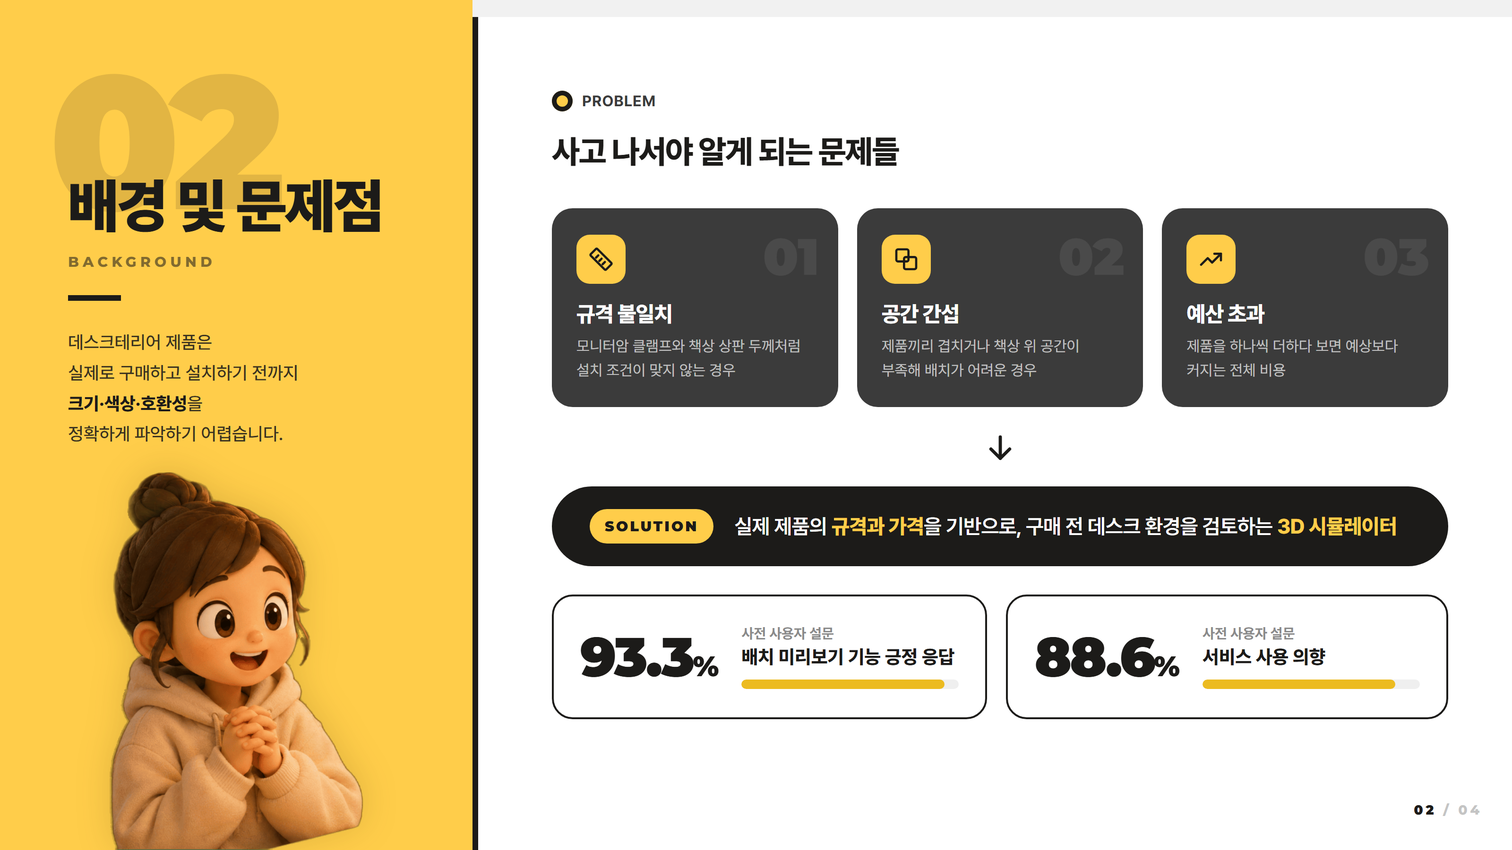
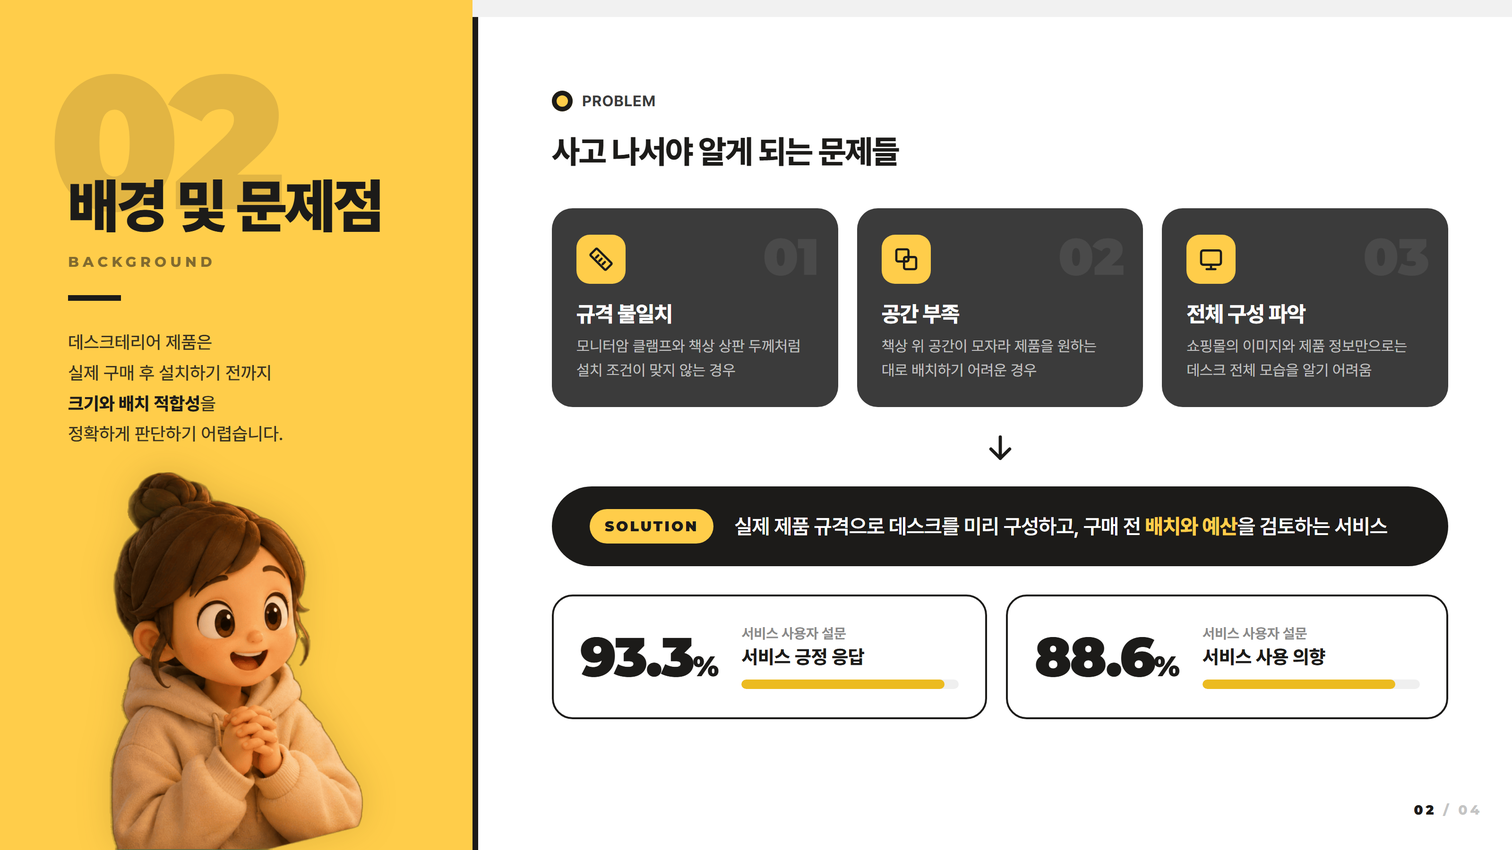
docs: README 05~10 내용 갱신 및 소개 슬라이드 01~04 재작성

diff --git a/docs/readme/src/slides.html b/docs/readme/src/slides.html
@@ -55,16 +55,16 @@
   .s1 .lead { font-size: 19px; line-height: 1.75; color: #444; margin-top: 18px; width: 560px; word-break: keep-all; }
   .s1 .lead b { color: var(--ink); font-weight: 700; }
   .s1 .laptop { position: absolute; right: 30px; top: 150px; width: 470px; filter: drop-shadow(0 24px 30px rgba(0,0,0,.16)); }
-  .s1 .facts { position: absolute; left: 84px; right: 84px; bottom: 76px; display: grid; grid-template-columns: 1.15fr .8fr 1.45fr 1.4fr; gap: 16px; }
-  .fact { border: 2px solid var(--ink); border-radius: 18px; padding: 20px 22px; background: #fff; }
+  .s1 .facts { position: absolute; left: 84px; right: 84px; bottom: 76px; display: grid; grid-template-columns: 1.2fr .8fr .8fr 1.3fr 1.5fr; gap: 14px; }
+  .fact { border: 2px solid var(--ink); border-radius: 18px; padding: 20px 18px; background: #fff; }
   .fact .k { font-size: 14px; font-weight: 700; color: var(--gray); letter-spacing: .5px; }
-  .fact .v { white-space: nowrap; font-size: 20px; font-weight: 800; margin-top: 8px; letter-spacing: -.5px; }
+  .fact .v { white-space: nowrap; font-size: 19px; font-weight: 800; margin-top: 8px; letter-spacing: -.5px; }
   .fact.award { background: var(--ink); color: #fff; display: flex; align-items: center; gap: 14px; padding: 20px 18px; }
   .fact.award .k { color: rgba(255,255,255,.55); }
   .fact.award .v { color: var(--yellow); }
   .fact.award svg { flex: none; }
-  .tags { display: flex; flex-wrap: wrap; gap: 6px; margin-top: 8px; }
-  .tags span { font-size: 14px; font-weight: 700; padding: 5px 11px; border-radius: 999px; background: var(--cream); border: 1.5px solid var(--ink); }
+  .tags { display: flex; flex-wrap: nowrap; gap: 6px; margin-top: 8px; }
+  .tags span { white-space: nowrap; font-size: 13px; font-weight: 700; padding: 5px 11px; border-radius: 999px; background: var(--cream); border: 1.5px solid var(--ink); }
   .tagline { position: absolute; left: 584px; bottom: 236px; font-weight: 900; font-size: 64px; letter-spacing: -2.5px; color: rgba(28,27,25,.08); white-space: nowrap; z-index: 2; pointer-events: none; }
 
   /* ---------- 02 ---------- */
@@ -120,7 +120,7 @@
     <h2>프로젝트 소개</h2>
     <div class="eyebrow">PROJECT OVERVIEW</div>
     <div class="bar"></div>
-    <p>실제 제품을 구매하기 전에<br><b>3D 공간에서 배치와 조합</b>을 확인해<br>불필요한 구매와 공간 구성의<br>시행착오를 줄입니다.</p>
+    <p>제품을 구매하기 전<br><b>가상 공간에서 배치와 조합</b>을 확인해<br>불필요한 구매와 공간 구성의<br>시행착오를 줄입니다.</p>
     <div class="ground"></div>
     <img class="mascot m1" src="assets/mascot-1.png" alt="">
   </div>
@@ -129,15 +129,16 @@
     <div class="kicker">실측 기반 3D 데스크테리어 시뮬레이터</div>
     <img class="logo" src="assets/logo.svg" alt="DERO">
     <h3>내 책상, 사기 전에<br><span class="hl">3D로 먼저 배치</span>해 보세요.</h3>
-    <p class="lead"><b>DERO</b>는 실제 제품 규격을 기반으로 자신만의 데스크 환경을 미리 구성하고, <b>제품 간 호환성과 예산</b>을 확인할 수 있는 3D 데스크테리어 시뮬레이션 서비스입니다.</p>
+    <p class="lead"><b>DERO</b>는 실제 제품 규격을 기반으로 자신만의 데스크 환경을 구성하고, <b>제품 간 호환성과 예산</b>을 미리 확인할 수 있는 3D 데스크테리어 서비스입니다.</p>
     <img class="laptop" src="assets/laptop.png" alt="">
     <div class="facts">
       <div class="fact"><div class="k">개발 기간</div><div class="v">2026.07 ~ 2026.08</div></div>
       <div class="fact"><div class="k">프로젝트 유형</div><div class="v">팀 프로젝트</div></div>
-      <div class="fact"><div class="k">주요 기술</div><div class="tags"><span>React</span><span>TypeScript</span><span>Tailwind CSS</span><span>GLB</span></div></div>
+      <div class="fact"><div class="k">담당 역할</div><div class="v">Frontend</div></div>
+      <div class="fact"><div class="k">주요 기술</div><div class="tags"><span>React</span><span>Tailwind CSS</span></div></div>
       <div class="fact award">
         <svg width="44" height="44" viewBox="0 0 24 24" fill="none" stroke="#FFCD4A" stroke-width="1.8" stroke-linecap="round" stroke-linejoin="round"><path d="M8 21h8M12 17v4M7 4h10v5a5 5 0 0 1-10 0V4Z"/><path d="M17 5h3v2a3 3 0 0 1-3 3M7 5H4v2a3 3 0 0 0 3 3"/></svg>
-        <div><div class="k">주요 성과</div><div class="v">프로젝트 최우수상</div></div>
+        <div><div class="k">주요 성과</div><div class="v">프로젝트 우수상</div></div>
       </div>
     </div>
     <div class="page"><b>01</b> / 04</div>
@@ -151,7 +152,7 @@
     <h2>배경 및 문제점</h2>
     <div class="eyebrow">BACKGROUND</div>
     <div class="bar"></div>
-    <p>데스크테리어 제품은<br>실제로 구매하고 설치하기 전까지<br><b>크기·색상·호환성</b>을<br>정확하게 파악하기 어렵습니다.</p>
+    <p>데스크테리어 제품은<br>실제 구매 후 설치하기 전까지<br><b>크기와 배치 적합성</b>을<br>정확하게 판단하기 어렵습니다.</p>
     <div class="ground"></div>
     <img class="mascot m2" src="assets/mascot-2.png" alt="">
   </div>
@@ -164,21 +165,21 @@
         <div class="t">규격 불일치</div><div class="d">모니터암 클램프와 책상 상판 두께처럼 설치 조건이 맞지 않는 경우</div></div>
       <div class="prob"><span class="x">02</span>
         <div class="ic"><svg width="28" height="28" viewBox="0 0 24 24" fill="none" stroke="#1C1B19" stroke-width="2" stroke-linecap="round" stroke-linejoin="round"><rect x="3" y="3" width="11" height="11" rx="1.5"/><rect x="10" y="10" width="11" height="11" rx="1.5"/></svg></div>
-        <div class="t">공간 간섭</div><div class="d">제품끼리 겹치거나 책상 위 공간이 부족해 배치가 어려운 경우</div></div>
+        <div class="t">공간 부족</div><div class="d">책상 위 공간이 모자라 제품을 원하는 대로 배치하기 어려운 경우</div></div>
       <div class="prob"><span class="x">03</span>
-        <div class="ic"><svg width="28" height="28" viewBox="0 0 24 24" fill="none" stroke="#1C1B19" stroke-width="2" stroke-linecap="round" stroke-linejoin="round"><path d="M3 17 9 11l4 4 8-8"/><path d="M15 7h6v6"/></svg></div>
-        <div class="t">예산 초과</div><div class="d">제품을 하나씩 더하다 보면 예상보다 커지는 전체 비용</div></div>
+        <div class="ic"><svg width="28" height="28" viewBox="0 0 24 24" fill="none" stroke="#1C1B19" stroke-width="2" stroke-linecap="round" stroke-linejoin="round"><rect x="3" y="4" width="18" height="13" rx="2"/><path d="M8 21h8M12 17v4"/></svg></div>
+        <div class="t">전체 구성 파악</div><div class="d">쇼핑몰의 이미지와 제품 정보만으로는 데스크 전체 모습을 알기 어려움</div></div>
     </div>
     <div class="arrow"><svg width="34" height="34" viewBox="0 0 24 24" fill="none" stroke="#1C1B19" stroke-width="2.4" stroke-linecap="round" stroke-linejoin="round"><path d="M12 4v16M5 13l7 7 7-7"/></svg></div>
     <div class="solve">
       <span class="chip">SOLUTION</span>
-      <span class="t">실제 제품의 <b>규격과 가격</b>을 기반으로, 구매 전 데스크 환경을 검토하는 <b>3D 시뮬레이터</b></span>
+      <span class="t">실제 제품 규격으로 데스크를 미리 구성하고, 구매 전 <b>배치와 예산</b>을 검토하는 서비스</span>
     </div>
     <div class="stats">
       <div class="stat"><div class="n">93.3<small>%</small></div>
-        <div><div class="k">사전 사용자 설문</div><div class="v">배치 미리보기 기능 긍정 응답</div><div class="meter"><i style="width:93.3%"></i></div></div></div>
+        <div><div class="k">서비스 사용자 설문</div><div class="v">서비스 긍정 응답</div><div class="meter"><i style="width:93.3%"></i></div></div></div>
       <div class="stat"><div class="n">88.6<small>%</small></div>
-        <div><div class="k">사전 사용자 설문</div><div class="v">서비스 사용 의향</div><div class="meter"><i style="width:88.6%"></i></div></div></div>
+        <div><div class="k">서비스 사용자 설문</div><div class="v">서비스 사용 의향</div><div class="meter"><i style="width:88.6%"></i></div></div></div>
     </div>
     <div class="page"><b>02</b> / 04</div>
   </div>
@@ -191,7 +192,7 @@
     <h2>주요 기능</h2>
     <div class="eyebrow">KEY FEATURES</div>
     <div class="bar"></div>
-    <p>배치부터 호환성, 예산, 공유까지<br><b>구매 전 데스크 검토</b>에 필요한<br>흐름을 하나로 담았습니다.</p>
+    <p>배치부터 호환성, 예산, 공유,<br>마이페이지까지 <b>구매 전 데스크 검토</b>에<br>필요한 흐름을 하나로 담았습니다.</p>
     <div class="ground"></div>
     <img class="mascot m3" src="assets/mascot-3.png" alt="">
   </div>
@@ -199,12 +200,12 @@
     <div class="kicker">FEATURES</div>
     <h3>DERO에서 할 수 있는 것</h3>
     <div class="feats">
-      <div class="feat"><div class="no">1</div><div><div class="t">3D 데스크 시뮬레이터</div><div class="d">실제 제품 크기를 반영한 데스크 환경 구성</div></div></div>
-      <div class="feat"><div class="no">2</div><div><div class="t">배치 및 호환성 검토</div><div class="d">제품 간 크기와 설치 조건을 고려한 배치 확인</div></div></div>
-      <div class="feat"><div class="no">3</div><div><div class="t">다중 카메라 시점</div><div class="d">1인칭 · 3인칭 · 탑뷰 · 후면뷰 제공</div></div></div>
-      <div class="feat"><div class="no">4</div><div><div class="t">벽면 표시 전환</div><div class="d">좌 · 우 · 앞 3면의 벽을 개별로 표시 및 숨김</div></div></div>
-      <div class="feat"><div class="no">5</div><div><div class="t">예산 관리</div><div class="d">선택한 제품의 가격으로 예상 비용 확인</div></div></div>
-      <div class="feat"><div class="no">6</div><div><div class="t">커뮤니티</div><div class="d">데스크 구성 공유 및 사용자 간 정보 교류</div></div></div>
+      <div class="feat"><div class="no">1</div><div><div class="t">3D 데스크 시뮬레이터</div><div class="d">실제 제품 규격을 반영한 데스크 환경 구성</div></div></div>
+      <div class="feat"><div class="no">2</div><div><div class="t">배치 및 호환성 확인</div><div class="d">제품 간 크기와 설치 조건을 고려한 배치 검토</div></div></div>
+      <div class="feat"><div class="no">3</div><div><div class="t">카메라 및 벽면 설정</div><div class="d">다양한 시점과 벽면 표시 전환으로 공간 확인</div></div></div>
+      <div class="feat"><div class="no">4</div><div><div class="t">제품 및 예산 관리</div><div class="d">선택한 제품 정보와 예상 구매 비용 확인</div></div></div>
+      <div class="feat"><div class="no">5</div><div><div class="t">커뮤니티</div><div class="d">데스크 구성 공유 및 사용자 간 정보 교류</div></div></div>
+      <div class="feat"><div class="no">6</div><div><div class="t">마이페이지</div><div class="d">개인 정보, 저장한 구성 및 활동 내역 관리</div></div></div>
     </div>
     <div class="page"><b>03</b> / 04</div>
   </div>
@@ -225,9 +226,9 @@
     <div class="kicker">SCREENSHOTS</div>
     <h3>직접 배치하고, 확인하고, 공유하기</h3>
     <div class="shots">
-      <div class="shot big"><img src="assets/sim.png" alt=""><div class="cap"><i>2</i>3D 데스크 시뮬레이터 <em>배치 · 카메라 전환 · 벽면 표시</em></div></div>
+      <div class="shot big"><img src="assets/sim.png" alt=""><div class="cap"><i>2</i>3D 데스크 시뮬레이터 <em>제품 선택 · 배치 · 카메라 전환</em></div></div>
       <div class="shot mock"><img src="assets/laptop.png" alt=""><div class="cap"><i>1</i>메인 화면</div></div>
-      <div class="shot"><img src="assets/product.png" alt=""><div class="cap"><i>3</i>제품 구성 · 예산 확인</div></div>
+      <div class="shot"><img src="assets/product.png" alt=""><div class="cap"><i>3</i>제품 정보 · 예산 확인</div></div>
       <div class="shot"><img src="assets/community.png" alt=""><div class="cap"><i>4</i>커뮤니티</div></div>
     </div>
     <div class="page"><b>04</b> / 04</div>

diff --git a/README.md b/README.md
@@ -9,97 +9,143 @@
 
 ## 05. 담당 역할
 
-**조규홍 — Frontend 개발**
+### Frontend (2026.07 ~ 08)
 
-- React 기반 프론트엔드 개발 작업 참여
-- TypeScript 및 Tailwind CSS를 활용한 UI 개발 환경 구성
-- 마이페이지의 주요 메뉴 및 화면 구조 설계 검토
-- 프론트엔드 실행 환경 구성 및 UI 컴포넌트 관련 문제 분석
+- React 기반 프론트엔드 개발 및 화면 구성
+- 프론트엔드 개발 환경을 React 기반으로 전환하는 작업 참여
+- Tailwind CSS 설치 및 UI 개발 환경 구성
+- 마이페이지 5개 화면의 구조 및 UI 설계
+- 페이지별 UI 요소와 사용자 동선을 고려한 화면 구성
+- 프론트엔드 개발 과정에서 발생한 문제 분석 및 개선 방향 검토
 
 ## 06. 기술 스택 및 선정 이유
 
 | 기술 | 선정 이유 |
 |---|---|
-| React | 컴포넌트 재사용과 사용자 상호작용이 많은 UI 구현 |
-| TypeScript | 타입 검사를 통한 데이터 구조 관리 및 코드 안정성 향상 |
-| Tailwind CSS | 공통 스타일 적용과 UI 개발 효율성 확보 |
-| GLB | 3D 제품 모델의 형상과 재질 정보를 효율적으로 관리 |
-| Spring Boot | REST API 및 서버 측 비즈니스 로직 구성 |
-| PostgreSQL | 사용자·상품·커뮤니티 등 관계형 데이터 관리 |
-| Flyway | 데이터베이스 스키마 변경 이력 관리 |
+| React | 컴포넌트 기반 구조를 통한 화면 개발 및 UI 재사용 |
+| JavaScript | 사용자 이벤트 처리 및 동적 화면 구성 |
+| Tailwind CSS | 유틸리티 클래스 기반의 빠른 스타일 적용과 일관된 UI 관리 |
+| HTML / CSS | 웹페이지 구조 및 레이아웃 구성 |
 
 ## 07. 기술 구현 정보
 
-### 1) 실측 기반 3D 데스크 시뮬레이터
+### 1) React 기반 프론트엔드 구조
 
-제품의 실제 크기 정보를 활용하여 3D 공간에서 배치 상태를 확인할 수 있도록 구성했습니다.
-사용자가 제품의 위치와 조합을 변경하면서 책상 공간에 적합한 구성을 미리 검토하는 방식입니다.
+React를 활용하여 서비스의 화면을 컴포넌트 단위로 구성하는 개발 환경을 구축했습니다.
 
-### 2) 카메라 프리셋 및 벽면 전환
+페이지별 기능과 UI 요소를 구분하여 개발하고, 공통으로 활용할 수 있는 레이아웃과 구성 요소를 고려했습니다.
 
-3D 공간에서 다양한 시점으로 데스크를 확인할 수 있도록 네 가지 카메라 프리셋을 구성했습니다.
+**주요 작업**
 
-- **1인칭 뷰:** 실제 사용자의 시선에서 배치 확인
-- **3인칭 뷰:** 전체 데스크 구성 확인
-- **탑뷰:** 제품 간 간격과 공간 활용 확인
-- **후면뷰:** 모니터암 및 케이블 정리 공간 확인
+- React 기반 프로젝트 환경 구성
+- 페이지 및 UI 컴포넌트 구조 검토
+- 화면별 사용자 인터페이스 구성
+- 컴포넌트 재사용을 고려한 화면 설계
 
-또한 좌·우·앞 벽면을 개별적으로 표시하거나 숨길 수 있도록 하여 시야를 확보하고 배치 상태를 쉽게 확인할 수 있도록 했습니다.
+### 2) Tailwind CSS 기반 UI 구성
 
-### 3) 제품 규격 및 예산 정보 활용
+Tailwind CSS를 도입하여 스타일을 효율적으로 적용할 수 있는 프론트엔드 개발 환경을 구성했습니다.
 
-제품별 크기, 가격, 설치 조건 등의 정보를 활용하여 데스크 구성에 필요한 정보를 제공하도록 설계했습니다.
-이를 통해 단순한 3D 배치를 넘어 실제 구매 과정에서 발생할 수 있는 호환성 문제와 예산 초과를 사전에 검토하는 것을 목표로 했습니다.
+화면별 레이아웃과 간격, UI 요소의 표현 방식을 일관되게 관리하는 데 중점을 두었습니다.
 
-### 4) 웹 서비스 구조
+**주요 작업**
 
-React 기반 프론트엔드와 Spring Boot 기반 백엔드를 분리하고, 제품·사용자·커뮤니티 정보를 관리하는 구조로 개발했습니다.
-데이터베이스는 PostgreSQL을 활용하고, Flyway를 통해 스키마 변경을 관리하는 방식으로 구성했습니다.
+- Tailwind CSS 설치 및 설정
+- UI 요소별 스타일 적용 구조 검토
+- 화면 간 레이아웃 및 디자인 일관성 고려
 
-<p align="center">
-  <img src="docs/context/diagrams/system-architecture.png" alt="서비스 아키텍처" width="100%">
-</p>
+### 3) 마이페이지 UI 설계
 
-## 08. 트러블슈팅
+마이페이지를 구성하는 5개 화면의 구조를 설계하며 사용자 정보 및 활동 데이터를 효율적으로 확인할 수 있는 UI를 검토했습니다.
 
-### 1) 3D 환경에서의 시야 확보 문제
+- 화면별 주요 정보와 기능 분류
+- 메뉴 및 콘텐츠 영역 구성
+- 페이지 간 이동 흐름 검토
+- 사용자 관점의 정보 배치와 조작 편의성 고려
 
-- **문제** — 실제 공간과 유사하게 벽을 구성하면 일부 시점에서 제품이 가려져 배치 상태를 확인하기 어려웠습니다.
-- **해결 과정** — 네 가지 카메라 프리셋과 벽면별 표시 전환 기능을 적용하여 사용자가 상황에 맞게 시점을 변경할 수 있도록 구성했습니다.
-- **결과 및 학습** — 실제 공간의 구조를 유지하면서도 제품 배치를 쉽게 확인할 수 있는 UI의 중요성을 이해했습니다.
+### 4) 3D 서비스의 사용자 인터페이스
 
-### 2) 대용량 3D 에셋 처리
+DERO는 사용자가 3D 공간에서 제품을 선택하고 배치하는 서비스이므로 일반적인 정보 조회 페이지와 달리 다양한 조작 기능을 제공합니다.
 
-- **문제** — 3D 제품 모델의 용량이 커질수록 로딩 시간과 렌더링 성능에 영향을 줄 수 있어 최적화가 필요했습니다.
-- **검토 과정** — GLB 모델의 크기와 전송 방식을 확인하고, 모델 압축 및 텍스처 최적화와 같은 개선 방법을 검토했습니다.
-- **학습 내용** — 3D 웹 서비스에서는 모델의 시각적 품질뿐 아니라 파일 크기, 네트워크 전송량, 렌더링 성능을 함께 고려해야 한다는 점을 학습했습니다.
+제품 선택, 카메라 전환, 벽면 표시 등의 기능을 사용자가 쉽게 이해하고 접근할 수 있도록 하는 인터페이스가 중요했습니다.
+
+이를 통해 3D 기능 자체뿐 아니라 사용자가 기능을 편리하게 사용할 수 있도록 화면을 구성하는 프론트엔드 설계의 중요성을 이해했습니다.
+
+## 08. 트러블슈팅 및 기술적 과제
+
+### 1) 프론트엔드 개발 환경 전환
+
+**과제**
+
+프로젝트 개발 과정에서 프론트엔드 환경을 React 기반으로 변경하면서 기존 화면 구성 방식과 프로젝트 구조를 재검토해야 했습니다.
+
+**대응 과정**
+
+React의 컴포넌트 기반 개발 방식에 맞춰 화면 구조와 UI 구성 방법을 검토하고, 개발 환경 설정 및 실행 과정을 확인했습니다.
+
+**학습 내용**
+
+프레임워크가 변경될 경우 단순한 문법 변경뿐 아니라 컴포넌트 구조와 화면 구성 방식도 함께 고려해야 한다는 점을 배웠습니다.
+
+### 2) UI 스타일 관리 및 일관성 확보
+
+**과제**
+
+여러 화면을 개발하는 과정에서는 페이지별 스타일이 달라지기 쉬워 일관된 UI 구성 방식이 필요했습니다.
+
+**대응 과정**
+
+Tailwind CSS를 적용할 수 있는 개발 환경을 구성하고, 공통 스타일과 레이아웃 기준을 활용하는 방식을 검토했습니다.
+
+**학습 내용**
+
+개별 화면의 스타일 구현뿐 아니라 서비스 전체에서 일관된 사용자 경험을 제공할 수 있도록 UI 구조를 관리하는 것이 중요하다는 점을 학습했습니다.
+
+### 3) 마이페이지 화면 및 정보 구성
+
+**과제**
+
+마이페이지에는 여러 종류의 사용자 정보와 활동 내역이 포함되어 있어, 기능별로 화면을 구분하고 직관적인 이동 흐름을 설계할 필요가 있었습니다.
+
+**대응 과정**
+
+마이페이지를 5개 화면으로 구분하여 각 화면의 정보와 기능을 정리하고, 메뉴 구조와 화면 이동 흐름을 검토했습니다.
+
+**학습 내용**
+
+프론트엔드 개발에서는 기능 구현뿐 아니라 사용자가 원하는 정보에 쉽게 접근할 수 있도록 화면 구조를 설계하는 과정도 중요하다는 점을 배웠습니다.
 
 ## 09. 학습 내용 및 회고
 
 ### 학습한 내용
 
-- React와 TypeScript 기반 프론트엔드 개발
-- Tailwind CSS를 활용한 컴포넌트 스타일 관리
-- 3D 모델 파일 구조 및 웹 환경에서의 에셋 처리 방식
-- 사용자 관점의 카메라 및 3D 인터페이스 설계
-- 프론트엔드와 백엔드가 분리된 서비스 구조 이해
+- React 기반 컴포넌트 개발 및 화면 구성
+- 프론트엔드 프로젝트 환경 설정과 구조 이해
+- Tailwind CSS를 활용한 UI 스타일 관리
+- 마이페이지 등 다중 화면의 구조 및 사용자 동선 설계
+- 3D 시뮬레이터를 포함한 웹 서비스의 사용자 인터페이스 구성
 
 ### 회고
 
-이번 프로젝트에서는 기존의 일반적인 웹 UI와 달리, 사용자가 3D 공간에서 직접 제품을 배치하고 확인하는 서비스의 개발 과정을 경험했습니다.
-특히 **사용자의 조작 편의성과 3D 모델의 시각적 완성도, 웹 환경에서의 성능을 함께 고려해야 한다는 점**을 배웠습니다.
-향후에는 3D 에셋 최적화와 제품 호환성 검증 기능을 더욱 고도화하여 실제 구매 의사결정에 도움이 되는 서비스로 발전시키고자 합니다.
+이번 프로젝트에서는 React 기반 프론트엔드 개발에 참여하면서 컴포넌트 구조와 UI 설계에 대한 이해를 높일 수 있었습니다.
+
+특히 기존 개발 환경을 변경하고 Tailwind CSS를 도입하는 과정을 통해 프로젝트 설정과 화면 개발 구조의 중요성을 배웠습니다.
+
+또한 마이페이지의 여러 화면을 설계하며 **기능을 구현하는 것뿐 아니라 사용자가 정보를 쉽게 확인하고 서비스를 직관적으로 이용할 수 있도록 구성하는 과정**이 중요하다는 점을 느꼈습니다.
+
+향후에는 컴포넌트 재사용성과 코드 유지보수성을 높이고, 다양한 화면 크기에서도 일관된 사용자 경험을 제공할 수 있는 프론트엔드 개발 역량을 강화하고자 합니다.
 
 ## 10. 출처 및 라이선스
 
 ### 참고 자료 및 외부 리소스
 
-- 3D 모델·썸네일·샘플 사진·캐릭터 일러스트는 팀이 직접 제작하거나 AI 생성 도구로 만든 자산이며, 외부 저작물을 포함하지 않습니다.
-- 환경 HDRI `frontend/public/assets/env/studio_small_09_1k.hdr`: [Poly Haven](https://polyhaven.com/a/studio_small_09) (CC0)
-- 의존 라이브러리: `frontend/package.json`, `backend/dero-api/build.gradle`에 명시되어 있으며 각 패키지의 라이선스를 따릅니다.
-- `.claude/skills/`의 외부 스킬 복제본: [mattpocock/skills](https://github.com/mattpocock/skills) (MIT) · [emilkowalski/skills](https://github.com/emilkowalski/skills) (MIT) · [Leonxlnx/taste-skill](https://github.com/Leonxlnx/taste-skill) (MIT) · [JuliusBrussee/caveman](https://github.com/JuliusBrussee/caveman) (Apache-2.0) · [D4Vinci/Scrapling](https://github.com/D4Vinci/Scrapling) (BSD-3). 출처 목록은 `skills-lock.json`.
+- [React](https://react.dev/) — 프론트엔드 개발
+- [Tailwind CSS](https://tailwindcss.com/) — UI 스타일링
+- 3D 제품 모델 및 텍스처 — 실제 사용한 에셋의 제작자 및 라이선스 표기
+- 제품 이미지 및 규격 정보 — 실제 활용한 데이터 제공처 표기
 
 ### 라이선스
 
 본 프로젝트는 교육 및 포트폴리오 목적으로 제작되었습니다.
-별도의 오픈소스 라이선스 적용 여부는 팀의 최종 공개 정책에 따릅니다.
+
+소스 코드의 공개 및 오픈소스 라이선스 적용 여부는 팀의 공개 정책에 따릅니다.
